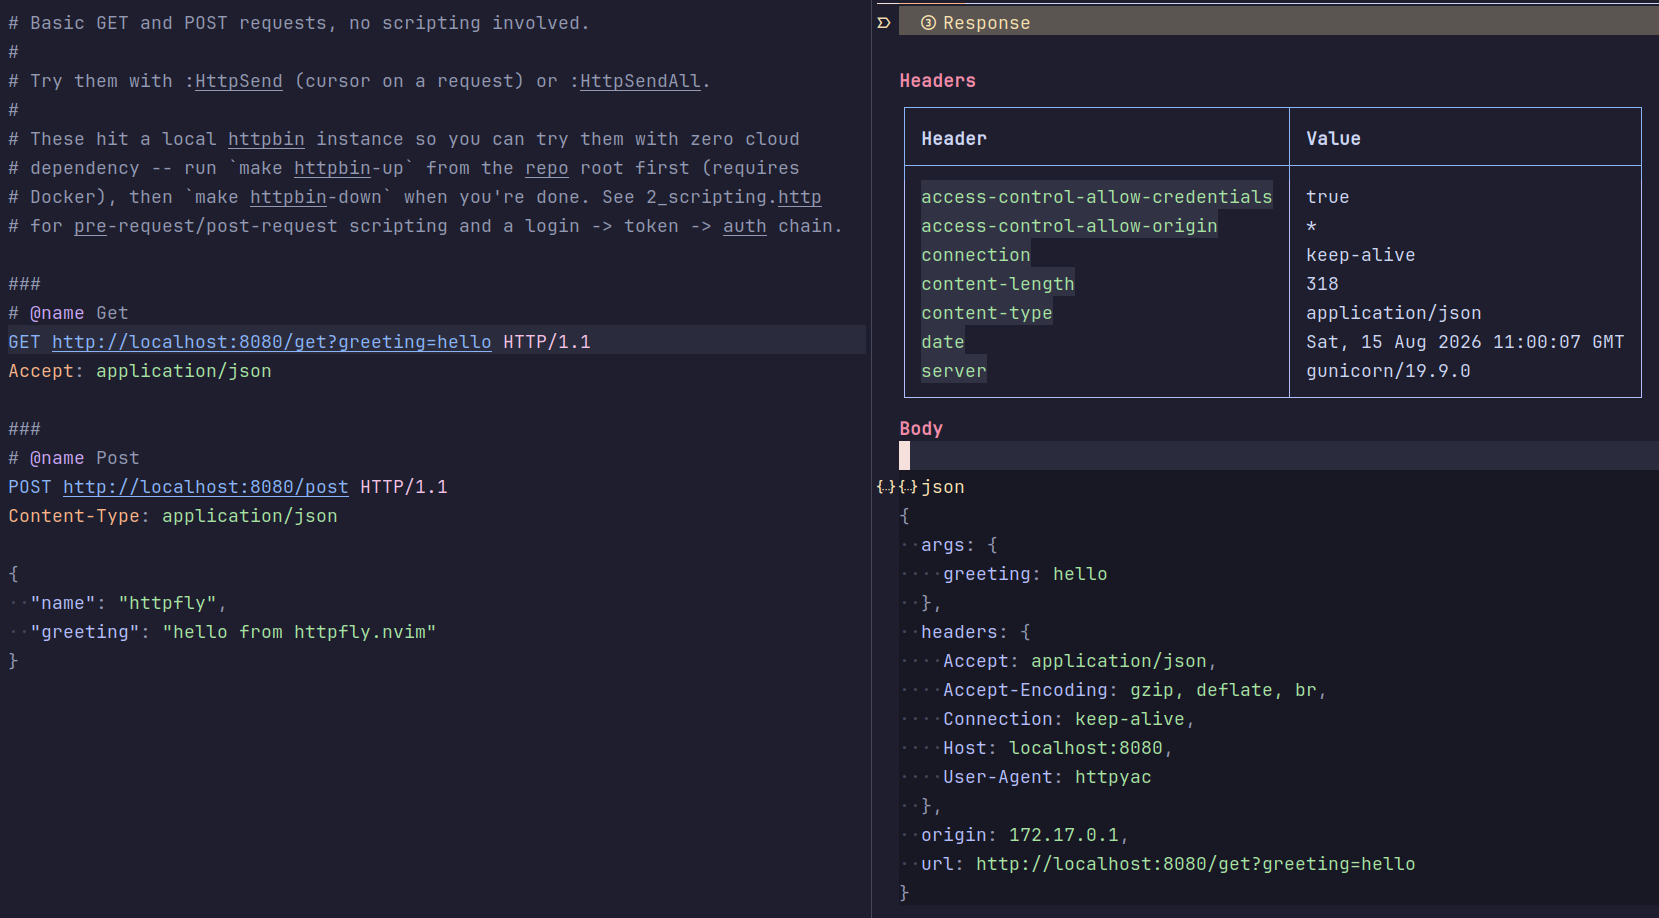
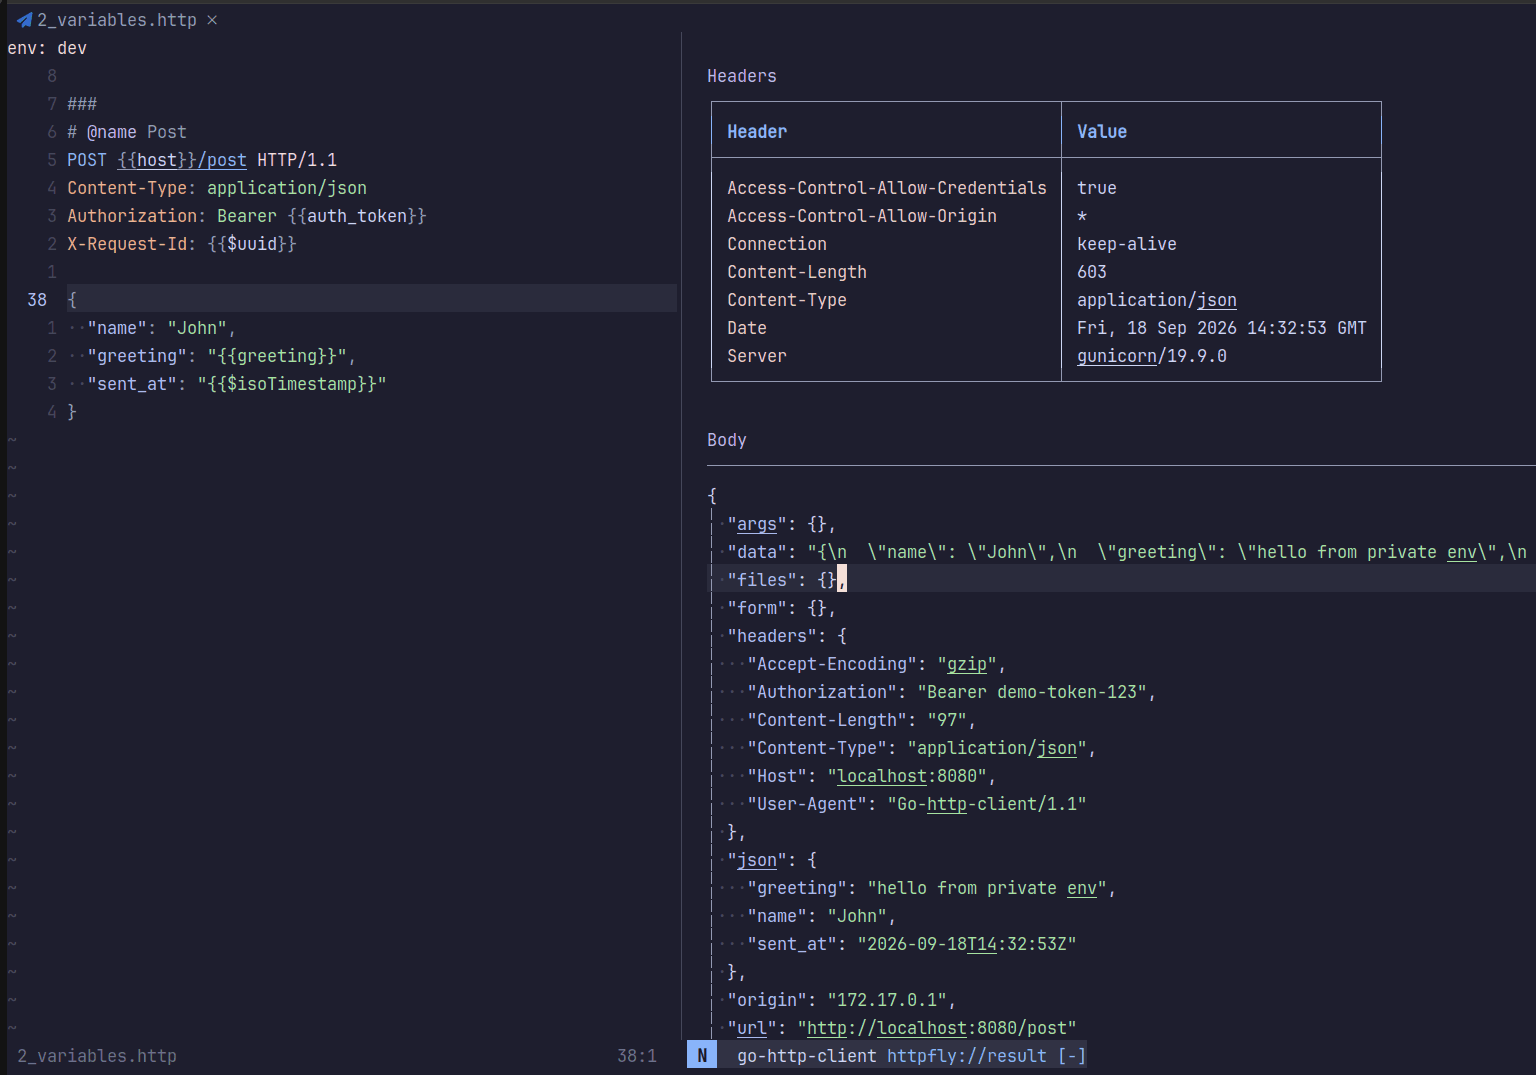
Drop the markdown output style
The unicode (box-drawing, directly highlighted) renderer is now the only
one, so the output_style option is gone. The :HttpEnvVars popup uses the
same plain-text style instead of markdown.

diff --git a/README.md b/README.md
@@ -2,7 +2,7 @@
 
 Send `.http` requests from Neovim using
 [httpfly](https://github.com/cristianradulescu/httpfly) and view the
-response as readable markdown.
+response in a colored, box-drawn result pane.
 
 ![httpfly.nvim showing a request file next to the rendered response](screenshot.png)
 
@@ -20,8 +20,8 @@ does that. This plugin just wires it into Neovim:
 - discovers/selects the httpfly environment (`http-client.env.json`, plus
   an optional `http-client.private.env.json` overlay) for the current file
 - runs `httpfly run` on the request under your cursor (or the whole file)
-- formats the JSON result as markdown (request/response headers, bodies
-  pretty-printed when JSON, status line) in a split
+- formats the JSON result (request/response headers as a table, bodies
+  pretty-printed and syntax-highlighted when JSON, status line) in a split
 - lets you preview values that got truncated in header tables (e.g. long
   bearer tokens) in a floating window
 - saves a copy of every result under `.httpfly/history/`
@@ -79,7 +79,6 @@ require("httpfly").setup({
   keymaps = true,                              -- set the default <leader>h* keymaps below
   max_header_value_len = 100,                  -- header table cell truncation length
   preview_keymap = "K",                        -- keymap to preview a truncated value
-  output_style = "markdown",                   -- "markdown" or "unicode"
   timeout = nil,                               -- per-request timeout as a Go duration ("2m"); nil = httpfly's 30s default
 })
 ```
@@ -97,19 +96,13 @@ Open a `.http` file and:
 | `:HttpSendAll`  | `<leader>ha`  | Send every request in the file                        |
 | `:HttpSessionClear` | `<leader>hc` | Clear persisted `client.global` state (see below) |
 
-The response opens in a vertical split as markdown (`filetype = "markdown"`).
-Set `output_style = "unicode"` for the same layout (headers as a table,
-request/response sections, a body block) rendered with Unicode box-drawing
-characters (`┌─┬─┐`, `━━━`) instead of markdown syntax — no `**bold**`,
-`` ``` `` fences, or `|---|` pipes, `filetype = "text"`. It's colored too
-(status/method/section titles/JSON body syntax — keys, strings, numbers,
-booleans, null/etc.), via highlights the plugin applies directly to the
-buffer — no markdown-rendering plugin or treesitter parser needed. Useful
-if you don't want a markdown-rendering plugin touching this
-buffer, or just prefer that look. History files (see below) get `.txt`
-instead of `.md` to match. In that split, put the
-cursor on a truncated header value and press `K` to see the full value in a
-floating window (works the same in both styles).
+The response opens in a vertical split (`filetype = "text"`): headers as a
+table, request/response sections and a body block, drawn with Unicode
+box-drawing characters (`┌─┬─┐`, `━━━`) and colored (status, method,
+section titles, JSON body syntax — keys, strings, numbers, booleans,
+null) via highlights the plugin applies directly to the buffer, with no
+extra plugin or treesitter parser needed. In that split, put the cursor on a truncated header value and press `K` to see the full
+value in a floating window.
 
 The currently selected environment for the file is shown in the winbar
 (`env: dev`, or `env: (none, :HttpEnv)` before you've picked one).
@@ -165,8 +158,8 @@ don't interfere with each other. Run `:HttpEnvVars` any time to see exactly
 which values are in effect for the selected environment (the precedence
 chain above, then persisted `client.global` state — see below — overriding
 all of it, the same order httpfly itself applies when sending requests).
-Variables added or overridden by persisted state are marked `[session]` /
-`[overridden by session]`.
+Variables added or overridden by persisted state are marked `(session)` /
+`(overridden by session)`.
 
 ### Directory resolution
 

diff --git a/CLAUDE.md b/CLAUDE.md
@@ -12,8 +12,8 @@ JetBrains-style `.http` files (`###` request separators, `{{variables}}`,
 variable substitution, script execution, environment merging, persisting
 `client.global` variables across separate invocations. This plugin's job
 is: discover/select the environment, shell out to `httpfly run -json`, and
-turn its JSON output into readable markdown in a split, with a floating-
-window preview for values too long to fit in a markdown table cell.
+turn its JSON output into a colored, box-drawn result pane in a split,
+with a floating-window preview for values too long to fit in a table cell.
 
 There is no build step and no test suite — this is a small, dependency-free
 Lua plugin. Verification is done by exercising modules directly through
@@ -204,15 +204,11 @@ Request flow, end to end:
    as its own section even on a successful run). httpfly's
    `-json` output is a **top-level array** (not `{summary, requests}` the
    way the previous httpyac backend's was) — `format.lua` just checks the
-   decoded value is a table before handing it to a renderer picked by
-   `config.options.output_style` (`"markdown"` → `format/markdown.lua`,
-   `"unicode"` → `format/unicode.lua`; unrecognized values fall back to
-   markdown). Both renderers take the same `(decoded, cmd_str)` and return
-   the same `(lines, truncations)` shape, so `runner.lua` doesn't need to
-   know which one ran — only `config.options.output_style` decides the
-   result buffer's `filetype` (`"markdown"`/`"text"`) and the history
-   file's extension (`.md`/`.txt`), both set directly in `runner.lua`
-   rather than threaded back through the renderer.
+   decoded value is a table before handing it to the one renderer,
+   `format/unicode.lua` (`render(decoded, cmd_str)` → `(lines,
+   truncations, highlights)`). The result buffer's `filetype` (`"text"`)
+   and history extension (`.txt`) are set directly in
+   `runner.lua`/`history.lua`.
    - **Per-request JSON shape**: each array element is
      `{name, request:{method,url,proto,headers,body},
      response:{status_code,headers,body,download_path?,tls?}, final_url?,
@@ -260,7 +256,7 @@ Request flow, end to end:
    buffer (`httpfly://result`, opened in a vertical split), registers the
    truncation map with `lua/httpfly/preview.lua`, and saves the same
    rendered output to `<dir>/.httpfly/history/<YYYYMMDD-HHMMSS-microseconds>
-   .{md,txt}` (extension matches `config.options.output_style`) via
+   .txt` via
    `lua/httpfly/history.lua`, where `<dir>` is the same directory
    `env.resolve_cwd()` computed for this send, matching where httpfly's own
    `.httpfly/state.json` lives, so a project only needs one `.gitignore`

diff --git a/CHANGELOG.md b/CHANGELOG.md
@@ -7,6 +7,17 @@ and this project adheres to [Semantic Versioning](https://semver.org/spec/v2.0.0
 
 ## [Unreleased]
 
+### Removed
+
+- The markdown output style, and with it the `output_style` option — the
+  unicode (box-drawing, directly highlighted) style is now the only one.
+  The result buffer is always `filetype = "text"` and history files always
+  get `.txt`. Drop `output_style` from your `setup({})` call.
+- `:HttpEnvVars` no longer renders its popup as markdown either: it's now
+  a plain-text list in the same box-drawn style as the result pane (a
+  ruled title, each variable name highlighted with its value on the
+  indented line below, wrapping as before), `filetype = "text"`.
+
 ### Added
 
 - New `timeout` option (e.g. `timeout = "2m"`), passed through as
